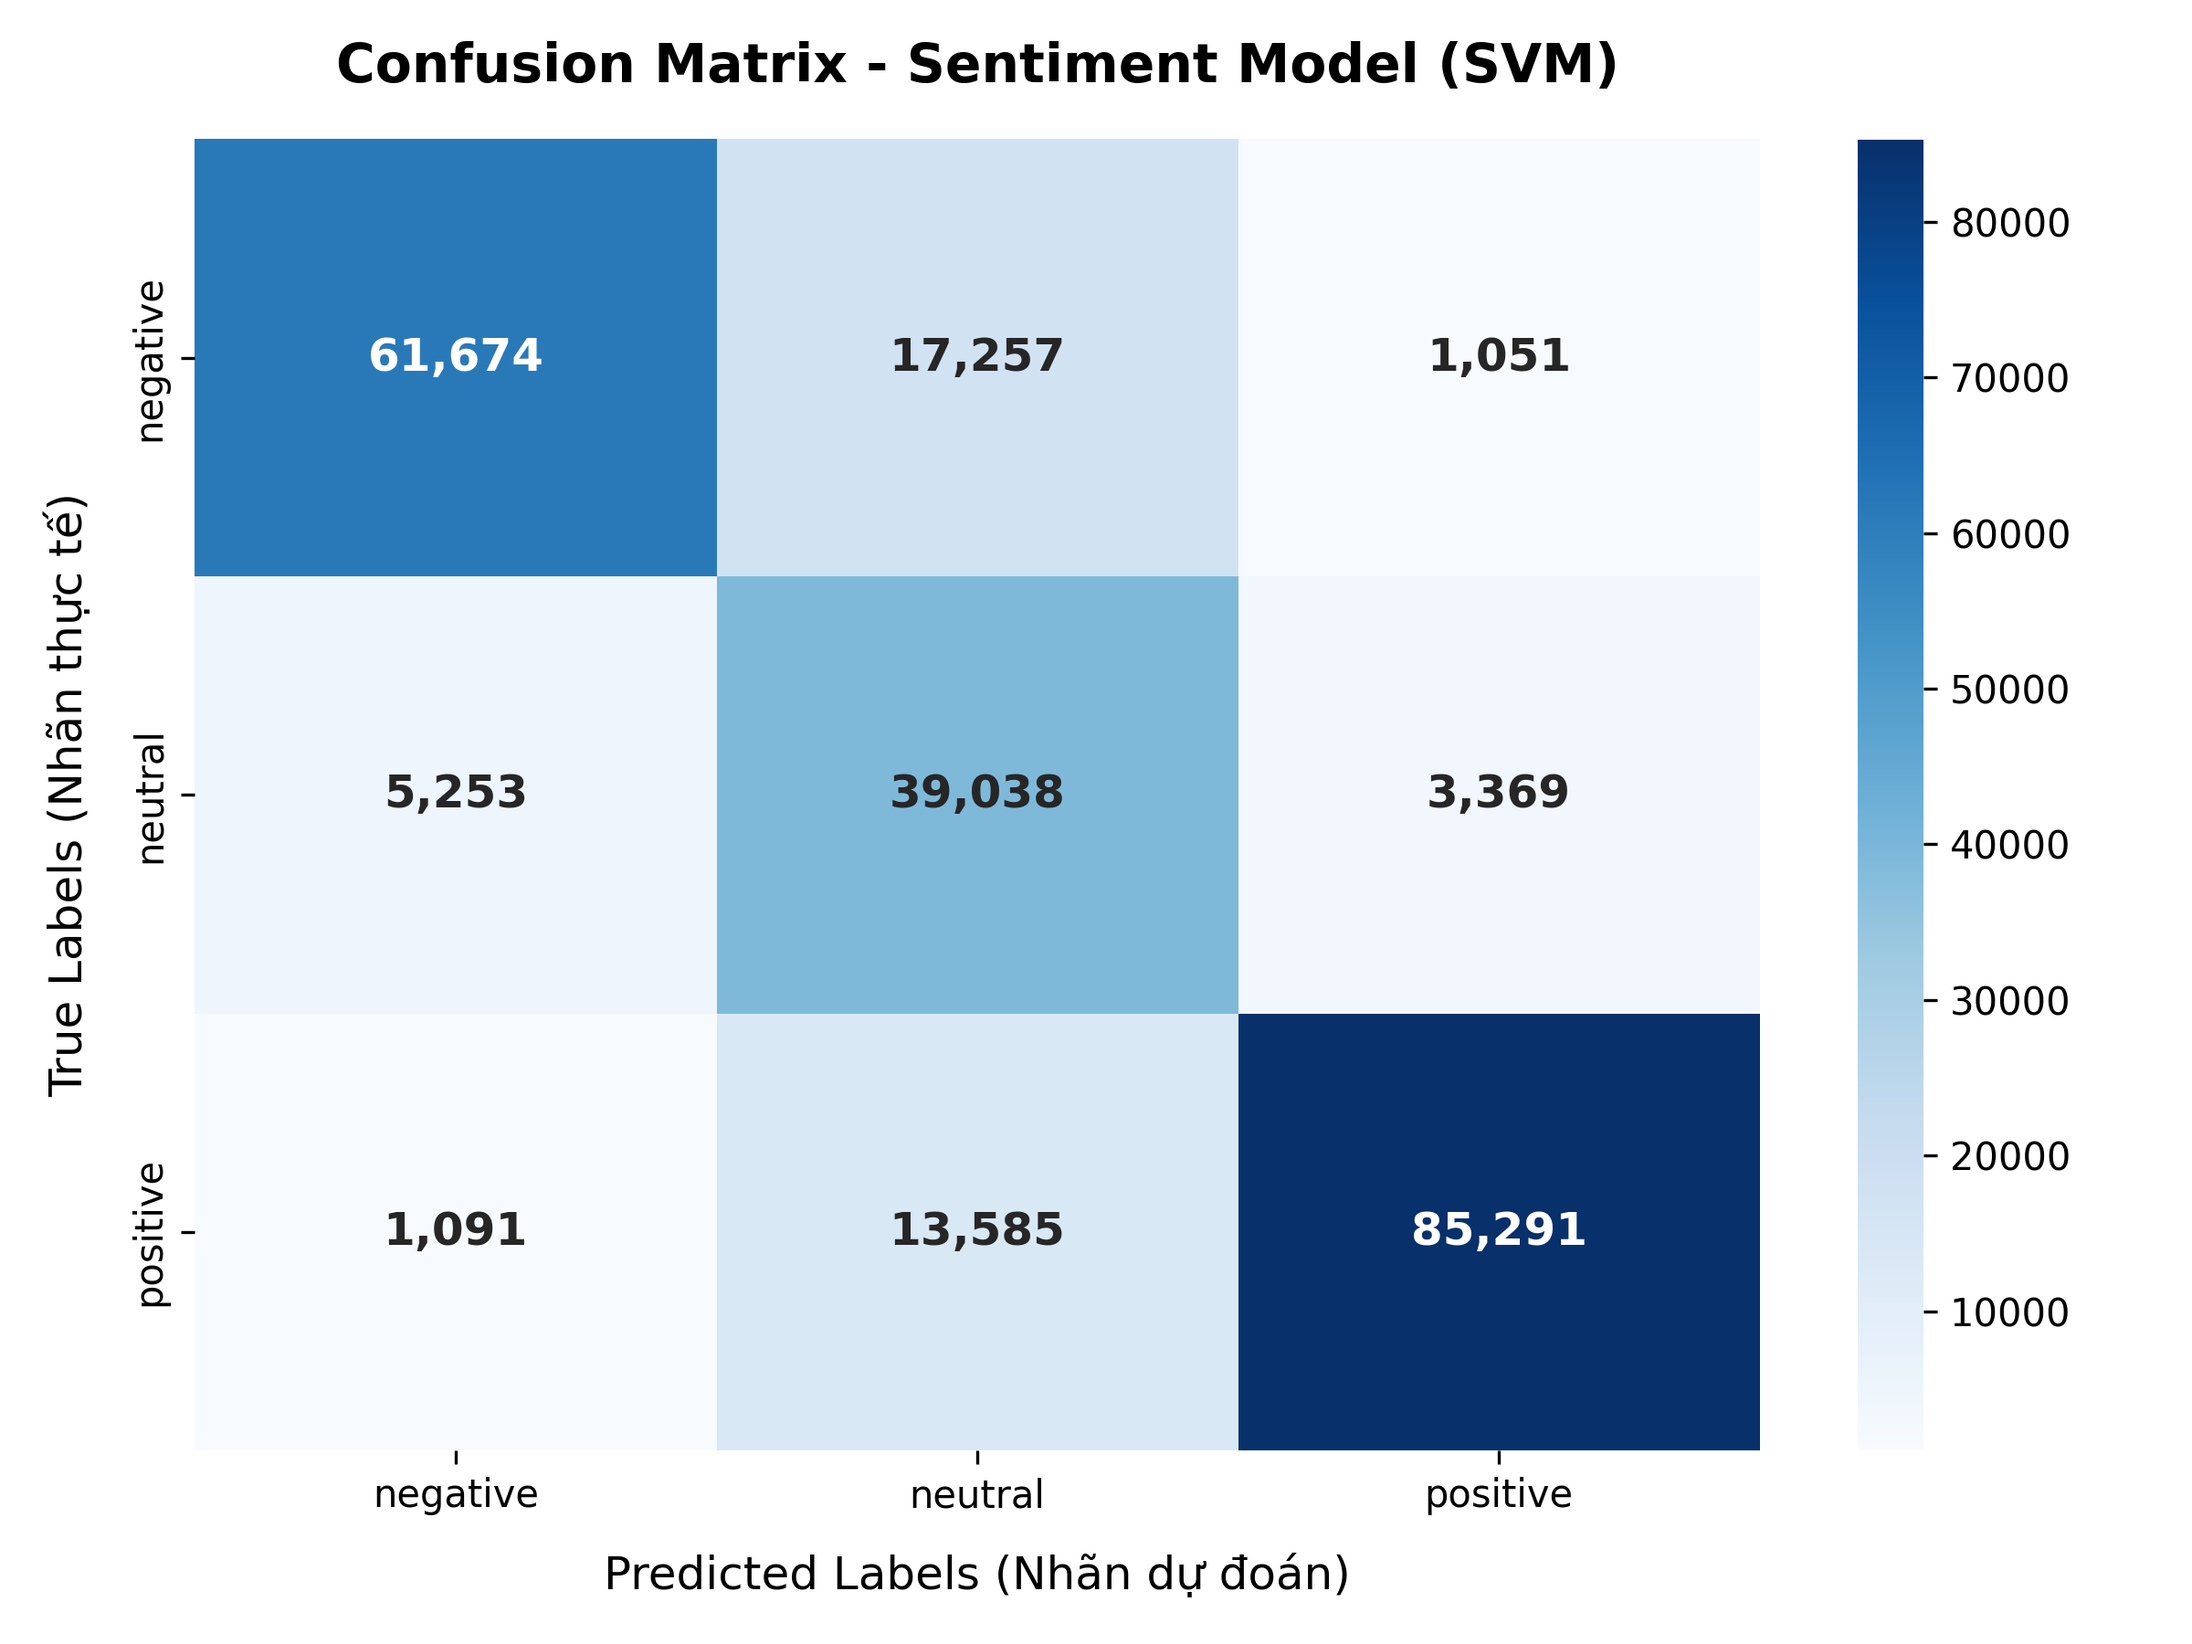
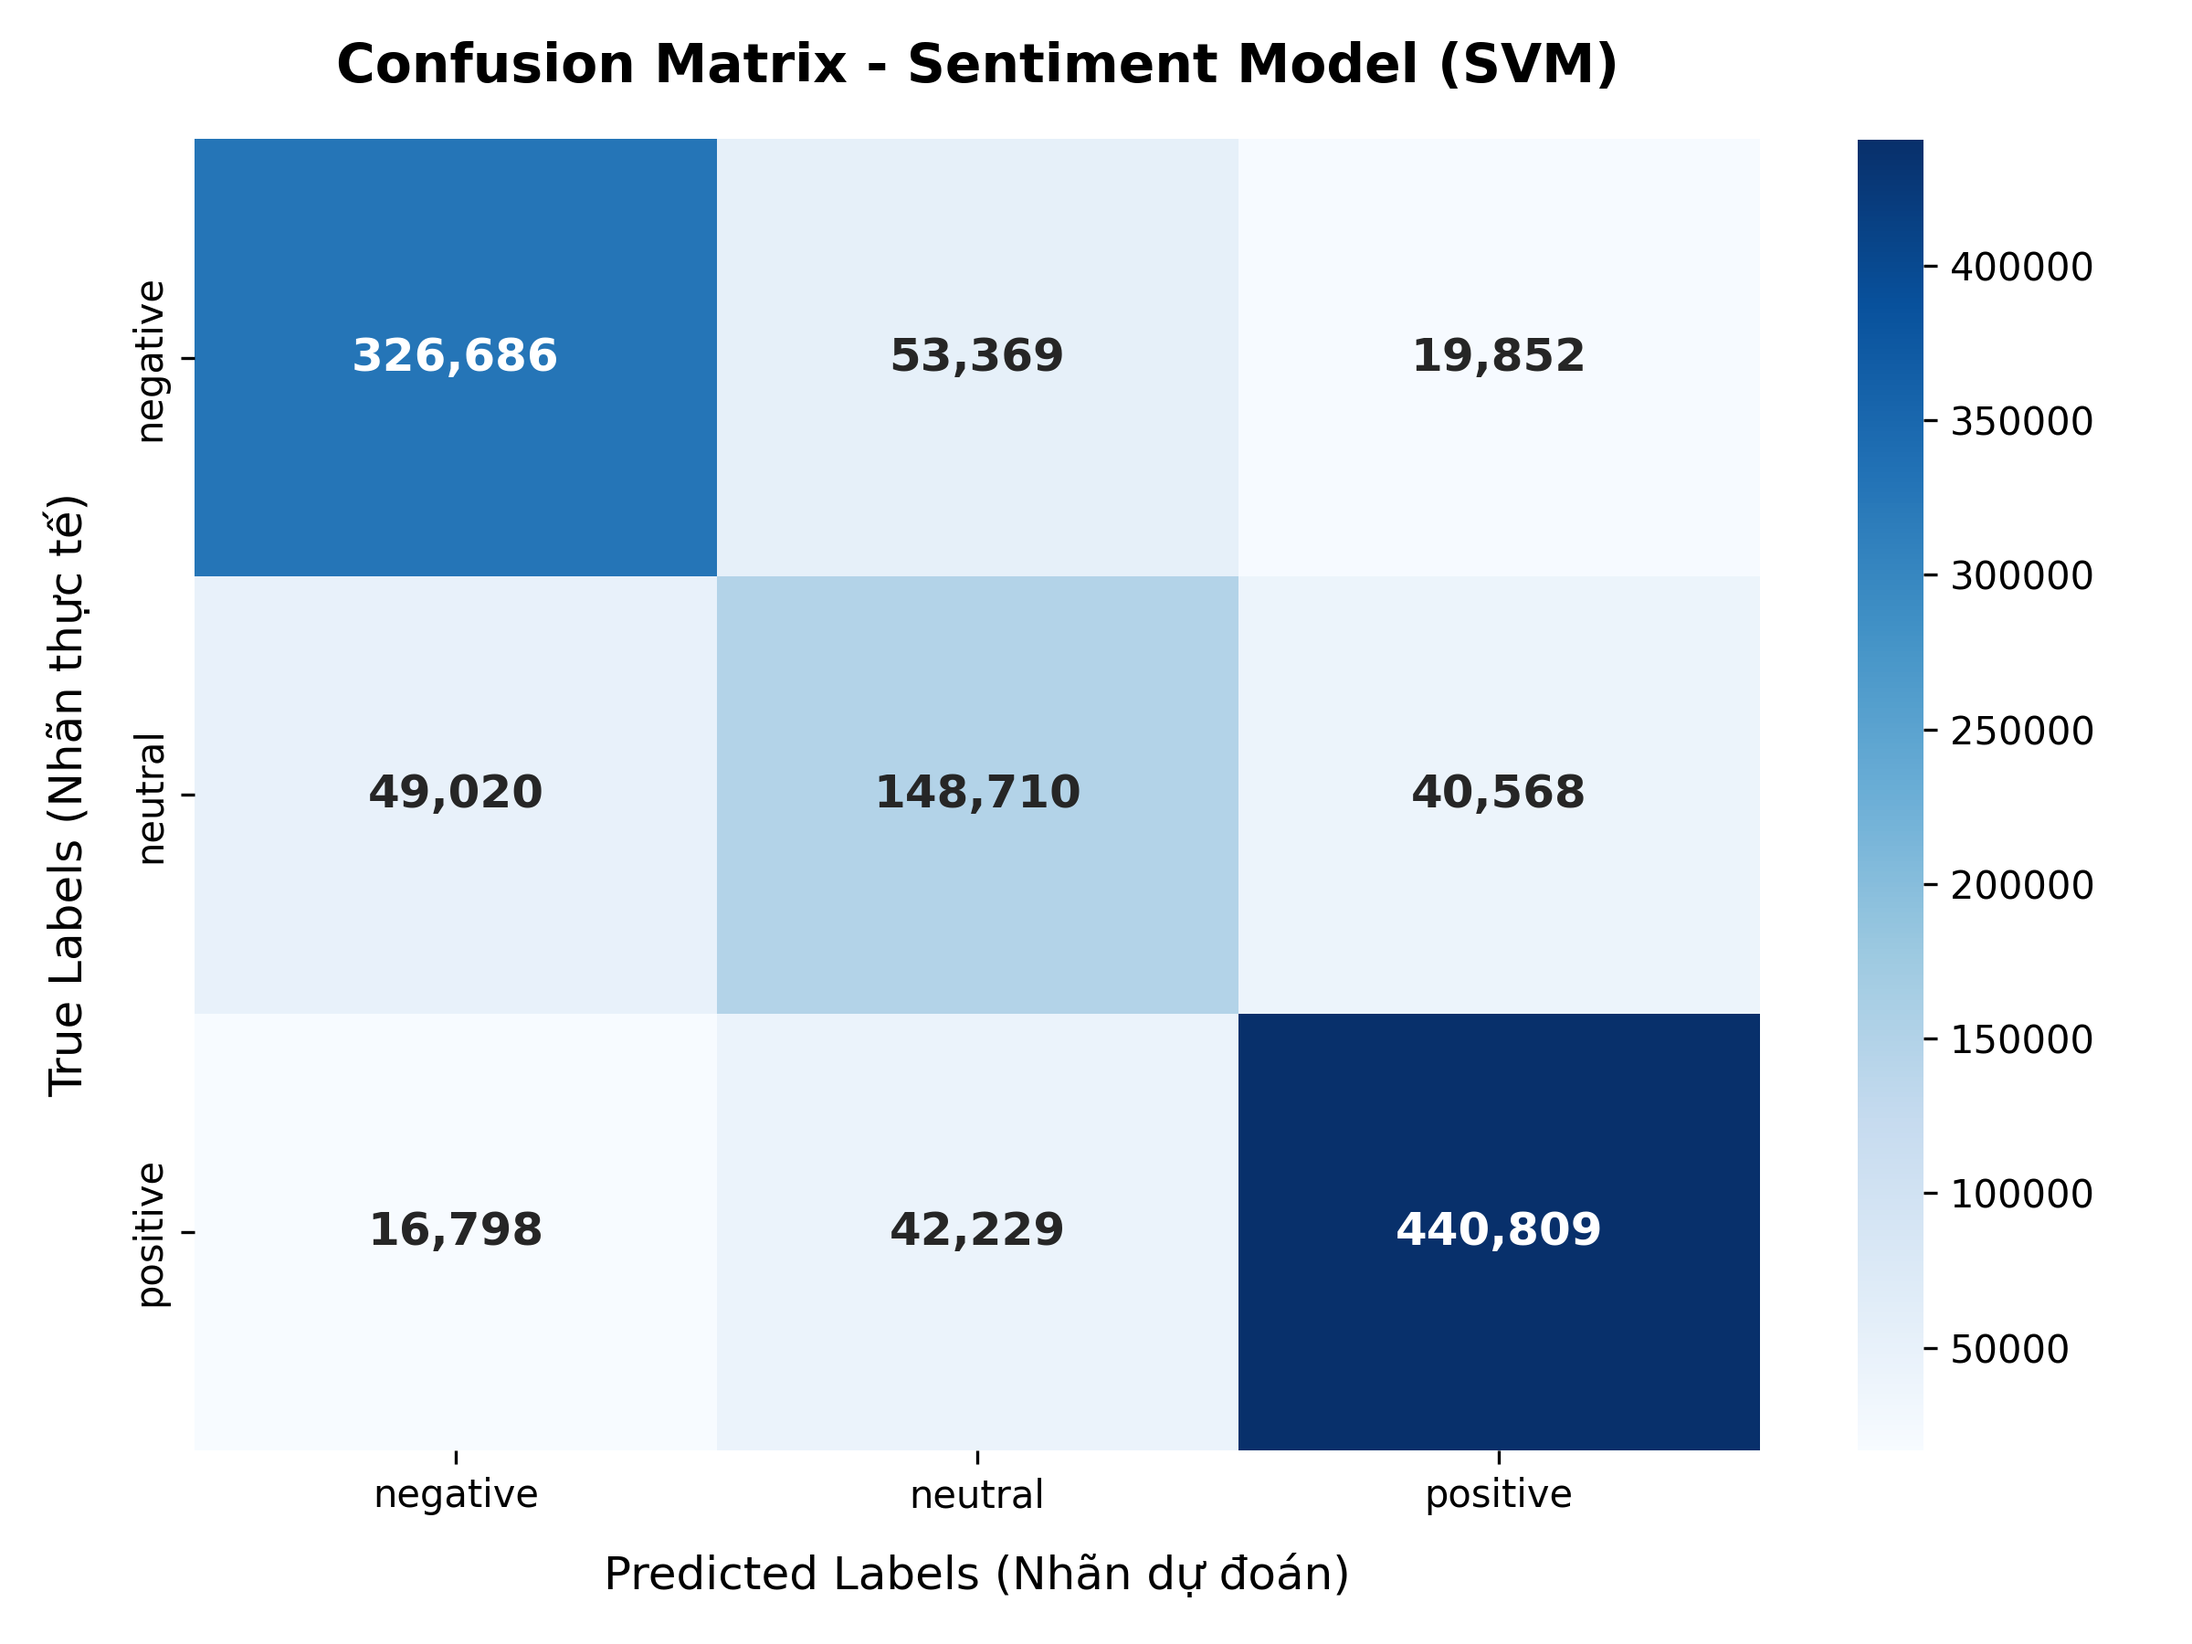
training 1100000 dòng balanced

diff --git a/ai-service/src/sentiment_model.py b/ai-service/src/sentiment_model.py
@@ -207,46 +207,31 @@ def _smote_resample(
     return x_new, y_new
 
 
-def train_model(texts, labels, use_char_ngram=True, neutral_boost=3.5, **kwargs):
-    print("\n1. Khởi tạo HashingVectorizer (Chống tràn RAM cực mạnh)...")
+def train_model(texts, labels, use_char_ngram=True, neutral_boost=2.0, **kwargs):
+    print("\n1. Khởi tạo TfidfVectorizer (Bộ não ngôn ngữ sắc bén)...")
     analyzer = 'char_wb' if use_char_ngram else 'word'
-    vectorizer = HashingVectorizer(
+    vectorizer = TfidfVectorizer(
         analyzer=analyzer, 
         ngram_range=(1, 3), 
-        n_features=50000  # Giới hạn 50.000 từ/cụm từ quan trọng nhất
+        max_features=25000  # Giới hạn 25.000 cụm từ quan trọng nhất để chống tràn RAM
     )
     
-    print("2. Khởi tạo thuật toán SGD (Linear SVM hỗ trợ học từng phần)...")
-    # Thay vì dùng SMOTE (sinh dữ liệu) gây nổ RAM, ta áp dụng trọng số phạt cực nặng cho lớp Neutral
+    print("2. Chuyển đổi văn bản thành Ma trận thưa (Rất nhẹ RAM)...")
+    # Biến 1.1 triệu câu thành ma trận toán học cực kỳ nhanh
+    X_train = vectorizer.fit_transform(texts)
+    
+    print("3. Khởi tạo thuật toán LinearSVC (Chuẩn xác cao)...")
+    # Thay vì SMOTE, ta tăng nhẹ trọng số Neutral lên gấp đôi là đủ
     class_weight = {'positive': 1.0, 'negative': 1.0, 'neutral': float(neutral_boost)}
-    model = SGDClassifier(loss='hinge', class_weight=class_weight, random_state=42)
+    model = LinearSVC(class_weight=class_weight, random_state=42, max_iter=2000)
     
-    # Định nghĩa trước 3 nhãn để mô hình không bỡ ngỡ khi học batch đầu tiên
-    classes = np.array(['negative', 'neutral', 'positive'])
+    print("4. Đang huấn luyện mô hình (Sẽ mất khoảng 1-3 phút)...")
+    model.fit(X_train, labels)
     
-    batch_size = 50000
-    total_samples = len(texts)
-    
-    print(f"3. Bắt đầu huấn luyện {total_samples} dòng dữ liệu theo từng Batch...")
-    for i in range(0, total_samples, batch_size):
-        batch_texts = texts[i : i + batch_size]
-        batch_labels = labels[i : i + batch_size]
-        
-        # Biến chữ thành số (Chỉ 50.000 dòng 1 lúc nên rất nhẹ)
-        X_batch = vectorizer.transform(batch_texts)
-        
-        # HỌC CẬP NHẬT DẦN (Cốt lõi của Out-of-core Learning)
-        model.partial_fit(X_batch, batch_labels, classes=classes)
-        print(f"   -> Đã học xong batch: {min(i + batch_size, total_samples)} / {total_samples}")
-        
-    print("4. Đang đánh giá mô hình (Cũng chạy theo Batch để tiết kiệm RAM)...")
-    y_pred = []
-    for i in range(0, total_samples, batch_size):
-        batch_texts = texts[i : i + batch_size]
-        X_batch = vectorizer.transform(batch_texts)
-        y_pred.extend(model.predict(X_batch))
-        
+    print("5. Đang đánh giá mô hình và lưu biểu đồ...")
+    y_pred = model.predict(X_train)
     report = classification_report(labels, y_pred, output_dict=True)
+    report["accuracy_score"] = report["accuracy"]
     report["confusion_matrix"] = confusion_matrix(labels, y_pred).tolist()
     
     return {
